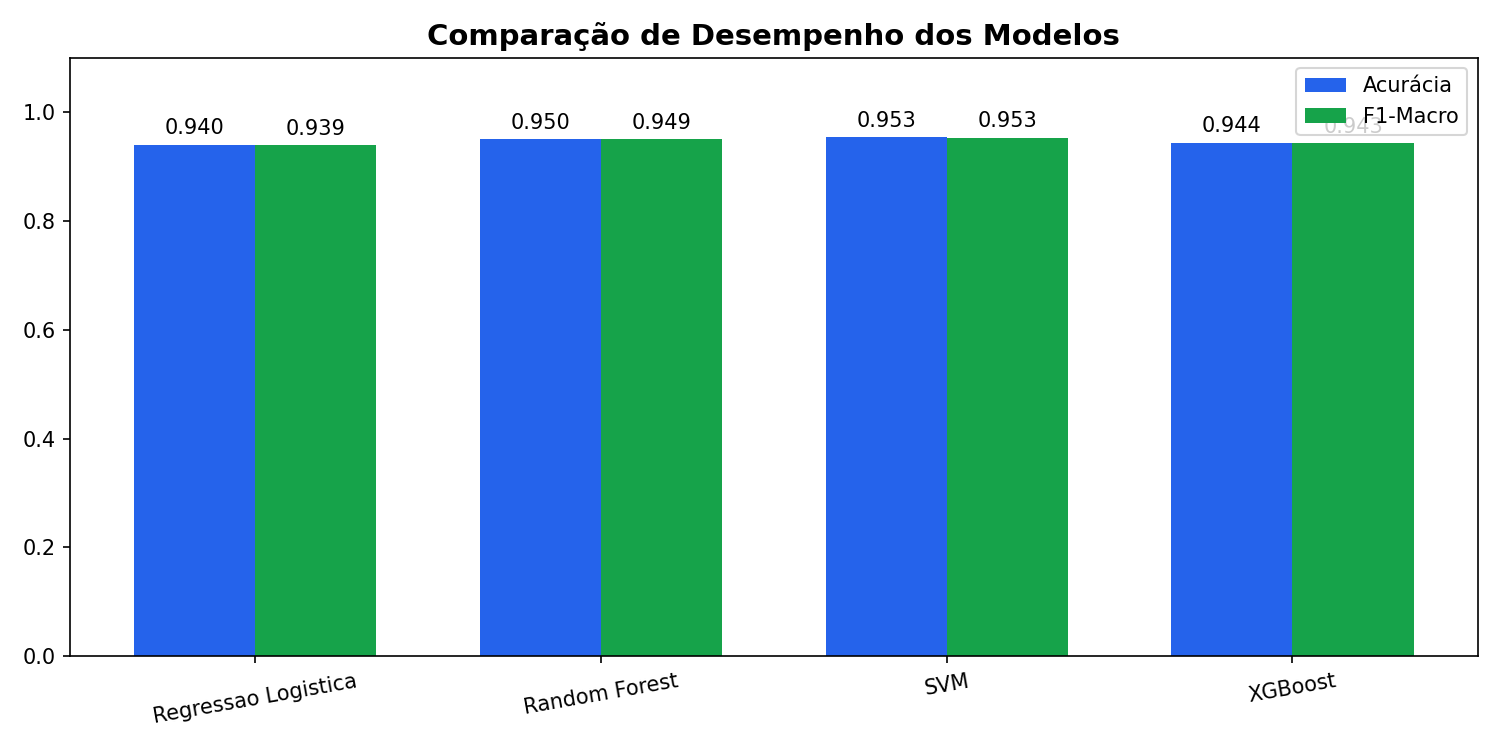
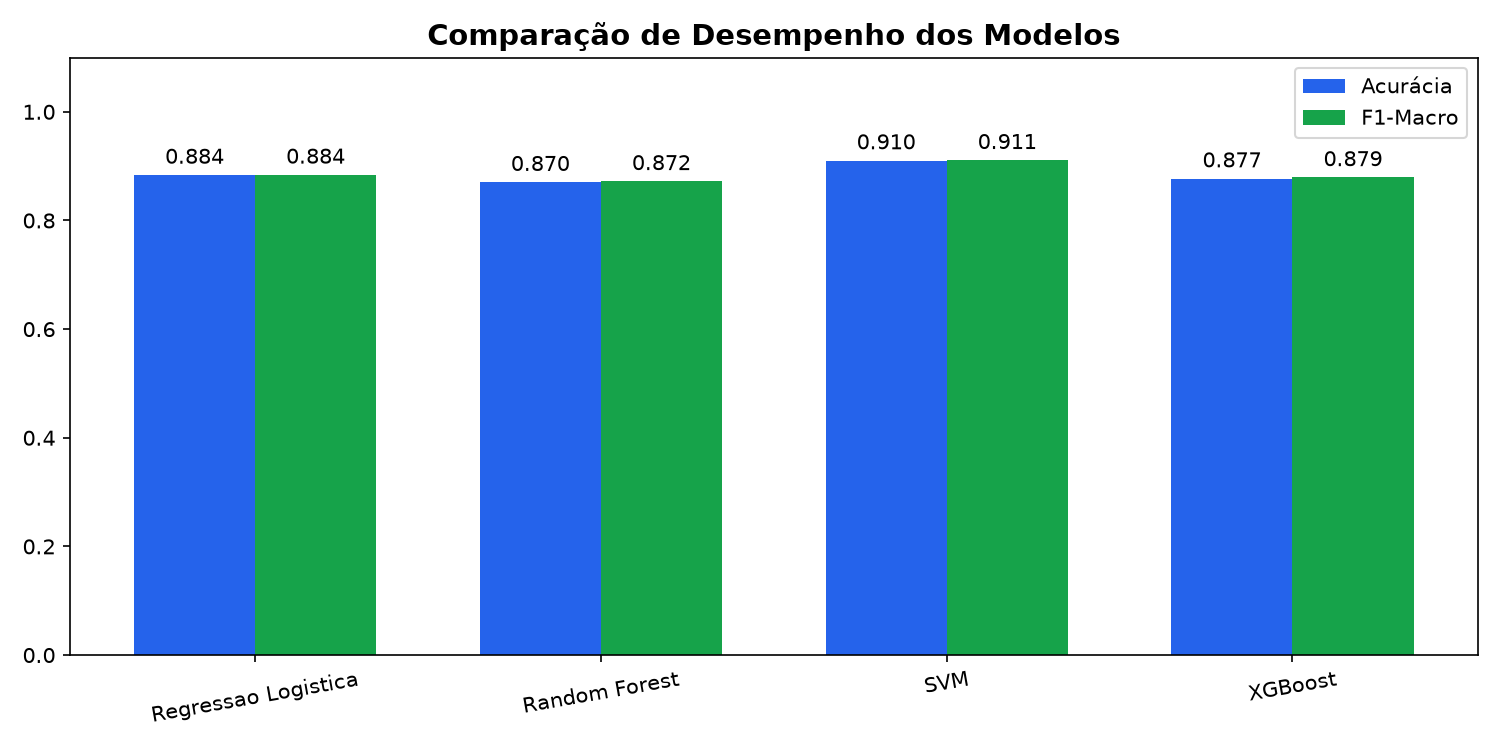
fix: retreinar IA para remover data leakage

diff --git a/IA-API/tdb_classificador_mensagens.py b/IA-API/tdb_classificador_mensagens.py
@@ -1703,15 +1703,6 @@ preprocessor = ColumnTransformer(transformers=[
     ("texto",      TfidfVectorizer(max_features=1500, ngram_range=(1, 2),
                                    strip_accents="unicode", lowercase=True,
                                    stop_words=stopwords_pt), feat_texto),
-
-    # Para colunas categóricas: aplica OneHotEncoder
-    # handle_unknown="ignore": se aparecer um valor novo na predição, ignora sem dar erro
-    ("categorico", OneHotEncoder(handle_unknown="ignore"), feat_cat),
-
-    # Para colunas numéricas: aplica StandardScaler
-    # Normaliza os números para média 0 e desvio padrão 1
-    # Isso evita que "gravidade 5" pese mais que "prioridade 4" só pelo valor
-    ("numerico",   StandardScaler(), feat_num),
 ])
 
 print("Pipeline de pré-processamento configurada!")
@@ -1906,13 +1897,8 @@ if melhor_nome in ["Random Forest", "XGBoost"]:
     tfidf_nomes = prep_final.named_transformers_["texto"].get_feature_names_out()
 
     # Recupera os nomes das features geradas pelo OneHotEncoder (ex: canal_whatsapp)
-    ohe_nomes = prep_final.named_transformers_["categorico"].get_feature_names_out()
-
-    # Converte a lista de features numéricas para array numpy
-    num_nomes = np.array(feat_num)
-
     # Junta todos os nomes de features em um único array
-    todos_nomes = np.concatenate([tfidf_nomes, ohe_nomes, num_nomes])
+    todos_nomes = tfidf_nomes
 
     # Pega os valores de importância de cada feature do modelo
     importancias = clf_final.feature_importances_

diff --git a/IA-API/test_model.py b/IA-API/test_model.py
@@ -1,0 +1,33 @@
+import joblib
+import pandas as pd
+
+pacote = joblib.load("modelo_tdb.joblib")
+pipeline = pacote["pipeline"]
+label_encoder = pacote.get("label_encoder")
+
+def testar(texto):
+    entrada = pd.DataFrame([{
+        "conteudo": texto,
+        "enviado_por": "BENEFICIARIO",
+        "canal": "email",
+        "prioridade_atendimento": 1,
+        "status_atendimento": "SOLICITADO",
+        "tipo_pessoa": "OUTRO",
+        "gravidade": 1
+    }])
+    
+    pred = pipeline.predict(entrada)[0]
+    if label_encoder is not None:
+        cat = label_encoder.inverse_transform([pred])[0]
+    else:
+        cat = pred
+        
+    prob = pipeline.predict_proba(entrada)[0]
+    print(f"Texto: '{texto}' -> {cat}")
+    print(f"Probabilidades: {dict(zip(pipeline.classes_, prob))}\n")
+
+testar("Gostei do atendimento do Alisson ótimo profissional")
+testar("Voces sao horriveis e o atendimento demorou muito")
+testar("Preciso de ajuda urgente, dor intensa no dente")
+testar("Eu confirmo presenca amanhã na consulta")
+testar("Acho que o site de vocês poderia ser mais rápido")
